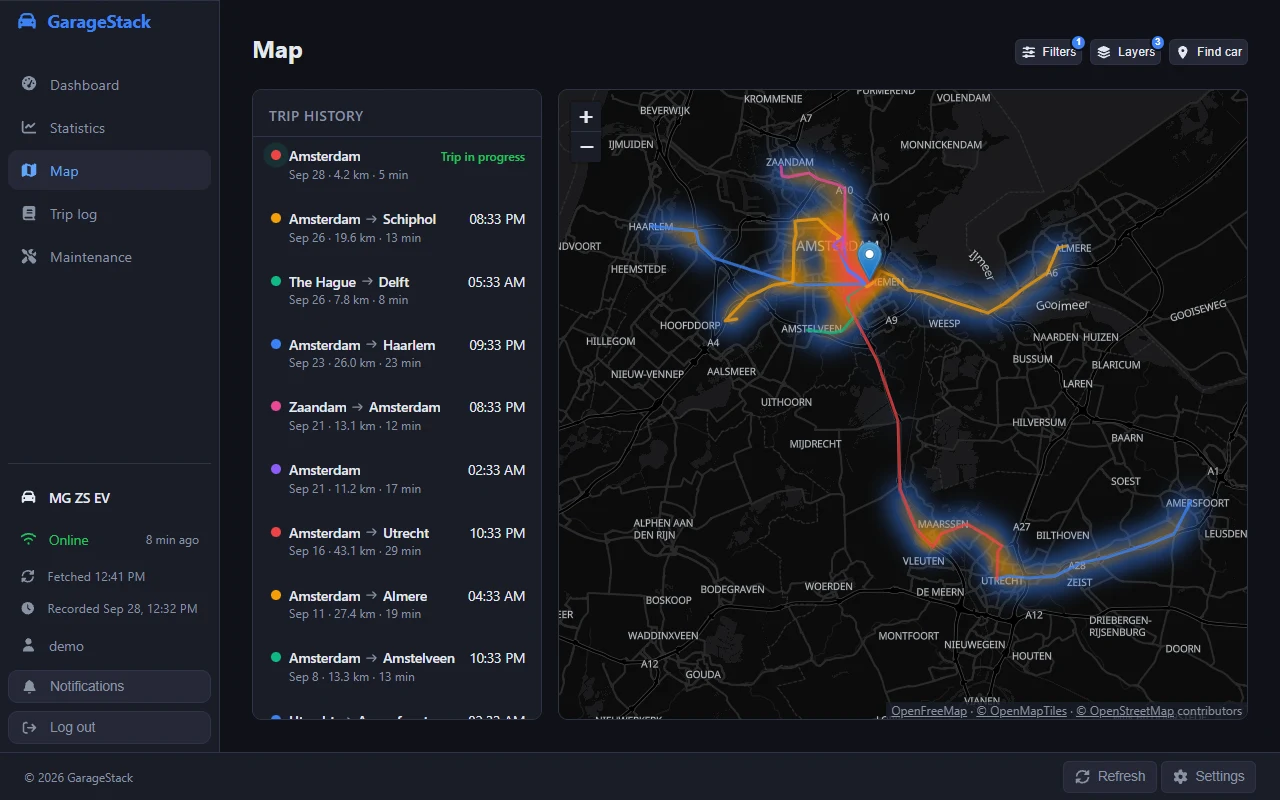
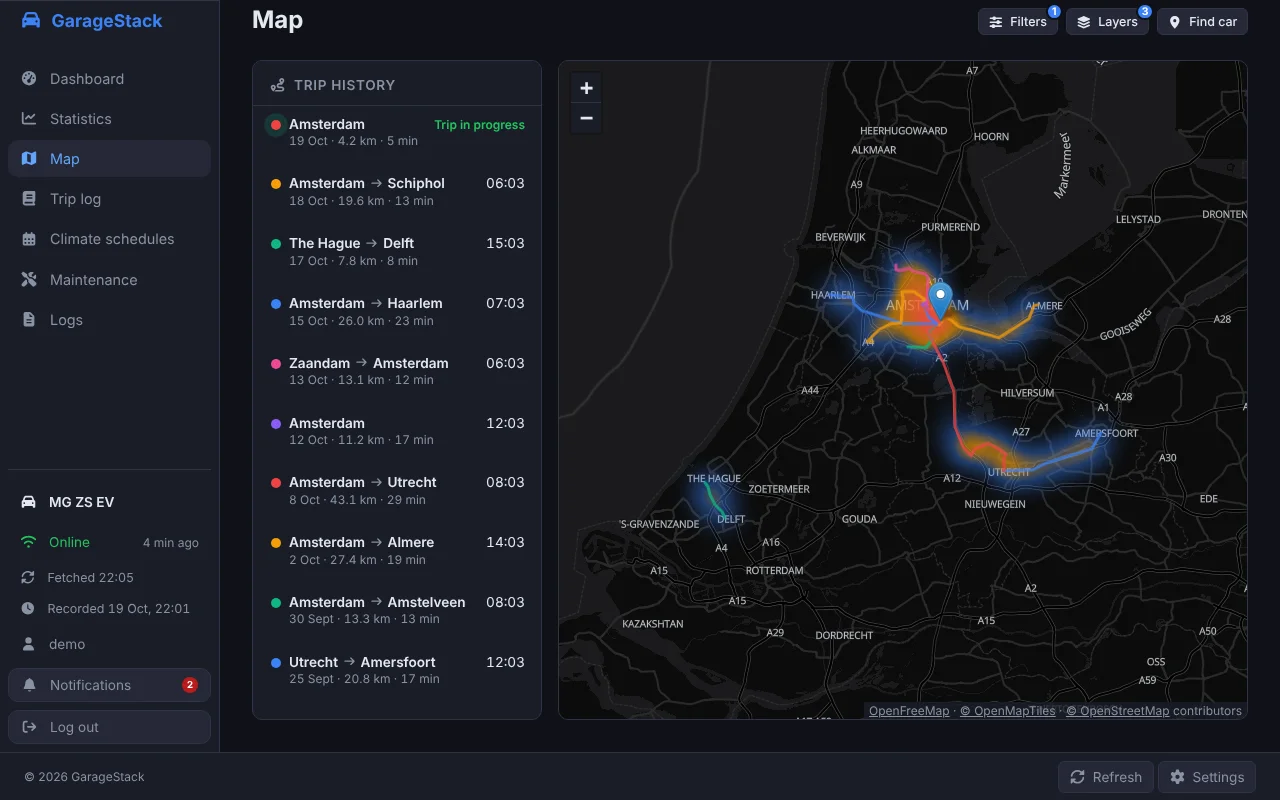
docs: an API reference for tokens, fresh screenshots, climate schedules and maintenance, and the PostgreSQL upgrade
- The OpenAPI document is served in every deployment at /api/openapi/v1.json,
  to whoever is signed in or holds a read-only token, and the README points
  token users at it instead of at the local demo.
- pnpm screenshots retakes the gallery and the manifest's install screenshots
  from a running demo stack; the gallery is retaken with it (the new sidebar,
  the RDW card, the trip log's hide and join) and gains Climate schedules.
- The README gets sections for climate schedules and maintenance, as the trip
  log and the RDW have.
- docker/all-in-one/README.md says how to move the bundled database to a new
  PostgreSQL major version by dump and restore, which the README links.

Claude-Session: https://claude.ai/code/session_01L6DtW2eHhipteRopmy3cif

diff --git a/src/GarageStack.Tests/AuthenticationFlowTests.cs b/src/GarageStack.Tests/AuthenticationFlowTests.cs
@@ -424,6 +424,27 @@ public class AuthenticationFlowTests
         Assert.DoesNotContain(logAfter, e => e.Id == second.Id);
     }
 
+    // The API reference is there for whoever is signed in (a token reads it too), and nobody else.
+    [Fact]
+    public async Task ApiReference_IsServedUnderApi_ToSignedInCallersOnly()
+    {
+        var ct = TestContext.Current.CancellationToken;
+        await using var factory = CreatePasswordOnlyFactory();
+        using var client = CreateClient(factory);
+
+        var anonymous = await client.GetAsync("/api/openapi/v1.json", ct);
+        var login = await client.PostAsJsonAsync(
+            "/api/auth/login",
+            new { username = DemoUsername, password = DemoPassword, rememberMe = false },
+            ct);
+        var reference = await client.GetFromJsonAsync<JsonElement>("/api/openapi/v1.json", ct);
+
+        Assert.Equal(HttpStatusCode.Unauthorized, anonymous.StatusCode);
+        Assert.Equal(HttpStatusCode.OK, login.StatusCode);
+        Assert.Equal("GarageStack API", reference.GetProperty("info").GetProperty("title").GetString());
+        Assert.True(reference.GetProperty("paths").TryGetProperty("/api/vehicles/{vin}/trips/{id}/merge-next", out _));
+    }
+
     // The statistics page asks for its period by local day, however long it is.
     [Fact]
     public async Task DailyStats_ServeEveryDayOfThePeriod_InTheBrowsersZone()

diff --git a/src/GarageStack.Api/Program.cs b/src/GarageStack.Api/Program.cs
@@ -156,6 +156,10 @@ try
     app.UseMiddleware<ApiTokenAuthentication.ReadOnlyMiddleware>();
     app.UseAuthorization();
 
+    // The API reference, for scripts with a read-only token: under /api/, which the frontend's nginx
+    // passes on, and for signed-in callers only, like every endpoint it describes.
+    app.MapOpenApi("/api/openapi/{documentName}.json").RequireAuthorization();
+
     if (app.Environment.IsDevelopment() || app.Environment.IsEnvironment("Demo"))
     {
         app.MapOpenApi();

diff --git a/README.md b/README.md
@@ -48,7 +48,7 @@ The statistics, trip log, maintenance list and light theme are in the [screensho
 - [Prerequisites](#prerequisites) and [Installation](#installation)
 - [Updating](#updating), [Monitoring](#monitoring) and [Backup and restore](#backup-and-restore)
 - [Push notifications](#push-notifications)
-- [Trip log](#trip-log)
+- [Trip log](#trip-log), [Climate schedules](#climate-schedules) and [Maintenance](#maintenance)
 - [Dutch registration (RDW)](#dutch-registration-rdw)
 - [Homepage dashboard widget](#homepage-dashboard-widget) and [Read-only API tokens](#read-only-api-tokens)
 - [Map overlays](#map-overlays)
@@ -253,7 +253,7 @@ The frontend is served on port `8080` by default (configurable via `FRONTEND_POR
 
 ## Updating
 
-Read the release notes first: anything an upgrade needs from you is listed under **Upgrade Notes** at the top. Database migrations run automatically on startup and only forwards, so to go back to an older version, restore the backup you took before upgrading (see [Backup and restore](#backup-and-restore)). A new PostgreSQL major version is never installed by an update: moving from 18 to the next one means a `pg_dump` from the old version and a restore into a fresh volume on the new one.
+Read the release notes first: anything an upgrade needs from you is listed under **Upgrade Notes** at the top. Database migrations run automatically on startup and only forwards, so to go back to an older version, restore the backup you took before upgrading (see [Backup and restore](#backup-and-restore)). A new PostgreSQL major version is never installed by an update: moving from 18 to the next one means a `pg_dump` from the old version and a restore into a fresh volume on the new one, step by step in [Moving to a new PostgreSQL major version](docker/all-in-one/README.md#moving-to-a-new-postgresql-major-version).
 
 **Docker Compose** builds GarageStack from the cloned source, so update the source and rebuild. `docker compose pull` fetches the gateway, Postgres and Mosquitto images:
 
@@ -423,6 +423,31 @@ Only trips the Worker has saved can be logged, so the trip being driven, and one
 
 ---
 
+## Climate schedules
+
+**Climate schedules** in the sidebar switch the car's climate on at a time you set, so it is warm (or cool) when you leave. They run on the GarageStack server: no phone or browser has to be open.
+
+- **When.** A time on the chosen weekdays, or once, on the next day that time comes round, when no weekday is chosen. The time is kept in the time zone the browser had when the schedule was made, so 07:30 stays 07:30 across daylight saving time.
+- **What.** A temperature (16 to 28 °C), or the fan only, or the front defrost; seat heating for either front seat, and the rear defroster.
+- **Only when it is needed.** A schedule can run only below or above an outside temperature: warming the car on cold mornings only, say. The car's own outside temperature from the last three hours decides; without a recent one the schedule runs.
+- **When it does not run.** Not while the engine runs, and not when the GarageStack Worker finds it more than 10 minutes late (after a restart, say): a car warmed long after you left is no use, so that run is recorded as missed. A car that answers that it is still busy, as one woken from a long sleep can, is asked again, up to three times.
+- **What you hear.** Each run sends a notification saying whether the car started climate, refused, or did not answer. The schedule's card shows the last run and when it runs next, and the optional dashboard card the next start.
+
+Commands sent by hand at the same moment as a scheduled run share the car's one command at a time; see [`ARCHITECTURE.md`](documentation/ARCHITECTURE.md#climate-schedules) for how a run is carried out.
+
+---
+
+## Maintenance
+
+**Maintenance** in the sidebar keeps the car's service items, such as the oil, the tyres or the yearly inspection.
+
+- **Intervals.** Each item has a distance interval, a time interval, or both; with both, it is due at whichever comes first.
+- **When it is due.** From the last service you logged and the car's odometer, an item is *OK*, *due soon* once 90 % of its interval has passed, or *overdue*. One without a service logged yet is *not tracked yet*.
+- **Logging a service.** Record the date, the odometer reading (the current one is filled in) and notes. The item's interval starts again from there, and its history is kept.
+- **Where it shows.** The dashboard's maintenance card shows the most urgent item, and so do the [Homepage widget](#homepage-dashboard-widget) and [Home Assistant](documentation/HOME_ASSISTANT.md#garagestacks-own-sensors). A notification comes when an item becomes due soon or overdue (checked every 6 hours, at most once a week per item).
+
+---
+
 ## Dutch registration (RDW)
 
 For a car with a Dutch licence plate, GarageStack shows what the [RDW](https://opendata.rdw.nl) has on record for it: when the APK runs out, the recalls on the car, and whether it is WAM insured. It is off until the deployment sets `RDW_ENABLED=true`; until then nothing is sent and none of the below appears.
@@ -450,7 +475,13 @@ To read GarageStack's data from a script, a dashboard or a watch, make a token u
 curl -H "Authorization: Bearer gs_..." https://garagestack.example.com/api/vehicles
 ```
 
-A token reads as the account that made it, through the same endpoints the app uses (the API reference lists them, see [`DEMO.md`](documentation/DEMO.md#manual-start)), and it can only read: any request that would change something, send a command or make another token is refused with `403`. The full data export and the server logs are refused too: they hold the car's whole history and the services' diagnostics, so they need a signed-in session. The list under Settings shows when each token was last used; revoking one stops it at once. GarageStack keeps only a hash of each token, so a lost one cannot be shown again: revoke it and make a new one.
+A token reads as the account that made it, through the same endpoints the app uses, and it can only read: any request that would change something, send a command or make another token is refused with `403`. The full data export and the server logs are refused too: they hold the car's whole history and the services' diagnostics, so they need a signed-in session. The list under Settings shows when each token was last used; revoking one stops it at once. GarageStack keeps only a hash of each token, so a lost one cannot be shown again: revoke it and make a new one.
+
+**The API reference** is at `/api/openapi/v1.json`, readable with the token like any other endpoint: every endpoint, what it takes and what it answers, as an OpenAPI document. Load it into any OpenAPI viewer, for example:
+
+```bash
+curl -H "Authorization: Bearer gs_..." https://garagestack.example.com/api/openapi/v1.json -o garagestack-openapi.json
+```
 
 A few things to know before building on a token:
 

diff --git a/documentation/screenshots/README.md b/documentation/screenshots/README.md
@@ -1,6 +1,6 @@
 # Screenshots
 
-Every view of GarageStack, on a desktop and on a phone. They were taken in [demo mode](../DEMO.md), so the car, its trips and the addresses are sample data.
+The main pages of GarageStack, on a desktop and on a phone. They were taken in [demo mode](../DEMO.md), so the car, its trips and the addresses are sample data.
 
 ## Desktop
 
@@ -22,11 +22,15 @@ Every view of GarageStack, on a desktop and on a phone. They were taken in [demo
 
 ### Trip log
 
-![The trip log: totals per purpose for the month, and each trip with its addresses, odometer readings, a business, commute or private choice and a notes field](desktop-trip-log.webp)
+![The trip log: totals per purpose for the month, and each trip with its addresses, odometer readings, a business, commute or private choice, a notes field, and buttons to hide it or join it with the next trip](desktop-trip-log.webp)
 
 ### Maintenance
 
 ![The maintenance list: service items marked overdue, due soon, OK or not tracked yet](desktop-maintenance.webp)
+
+### Climate schedules
+
+![The climate schedules: a weekday schedule at 07:30 with seat heating, and a one-off front defrost at 08:15, each with when it runs next](desktop-climate-schedules.webp)
 
 ### Light theme
 
@@ -39,11 +43,19 @@ Every view of GarageStack, on a desktop and on a phone. They were taken in [demo
 | Dashboard | Map | A single trip | Light theme |
 | --------- | --- | ------------- | ----------- |
 | <img src="mobile-dashboard.webp" alt="The dashboard on a phone" width="180"> | <img src="mobile-map.webp" alt="The map on a phone" width="180"> | <img src="mobile-map-trip.webp" alt="One trip against the speed limits on a phone" width="180"> | <img src="mobile-dashboard-light.webp" alt="The dashboard on a phone in the light theme" width="180"> |
-| **Statistics** | **Trip log** | **Maintenance** | |
-| <img src="mobile-statistics.webp" alt="The statistics on a phone" width="180"> | <img src="mobile-trip-log.webp" alt="The trip log on a phone" width="180"> | <img src="mobile-maintenance.webp" alt="The maintenance list on a phone" width="180"> | |
+| **Statistics** | **Trip log** | **Maintenance** | **Climate schedules** |
+| <img src="mobile-statistics.webp" alt="The statistics on a phone" width="180"> | <img src="mobile-trip-log.webp" alt="The trip log on a phone" width="180"> | <img src="mobile-maintenance.webp" alt="The maintenance list on a phone" width="180"> | <img src="mobile-climate-schedules.webp" alt="The climate schedules on a phone" width="180"> |
 
 <!-- markdownlint-enable MD033 -->
 
 ## Taking new ones
 
-The desktop screenshots are 1280 x 800 and the phone screenshots 390 x 844 at twice the pixel density, in the dark theme with the date filter on 30 days. The dashboard, map and statistics screenshots are also the install screenshots in the app's manifest, as `frontend/public/screenshot-*.webp`: replace those too, and keep their `sizes` in `frontend/vite.config.ts` in step.
+`pnpm screenshots` in `frontend/` takes all of them again from a running demo stack, and copies the dashboard, map and statistics ones to the install screenshots in the app's manifest (`frontend/public/screenshot-*.webp`):
+
+```bash
+cp .env.demo.example .env.demo
+docker compose --env-file .env.demo -f docker-compose.demo.yml up -d --build   # repository root
+cd frontend && pnpm screenshots                                                 # or: pnpm screenshots http://localhost:5173
+```
+
+It signs in as `demo`, and takes the desktop screenshots at 1280 x 800 and the phone screenshots at 390 x 844 at twice the pixel density, in the dark theme with the date filter on 30 days and the region set to the Netherlands, plus the dashboard in the light theme. The maps need the internet for their tiles; behind a proxy, `HTTPS_PROXY` is used for them. `CHROMIUM_PATH` points it at a Chromium other than Playwright's own. Keep the manifest's `sizes` in `frontend/vite.config.ts` in step if the sizes change.

diff --git a/docker/all-in-one/README.md b/docker/all-in-one/README.md
@@ -181,6 +181,46 @@ docker start garagestack
 
 To restore, stop the container, replace `garagestack-data` with the backup, and start it again. Only the database (`garagestack-data/db/postgres`) and DataProtection keys (`garagestack-data/dataprotection`) actually matter for disaster recovery -- losing the keys just logs everyone out, it doesn't lose any vehicle data.
 
+A dump of the database alone, taken while the container runs, is a smaller backup that also moves between PostgreSQL versions:
+
+```bash
+docker exec -u postgres garagestack pg_dump --clean --if-exists garagestack > garagestack-backup.sql
+```
+
+### Moving to a new PostgreSQL major version
+
+The image bundles PostgreSQL 18, and a PostgreSQL major version cannot read the data directory of another. An update never changes it on its own: when a release moves the image to the next major version, its release notes say so, and the database moves over by dump and restore. Replace `garagestack` with your `POSTGRES_DB` if you changed it.
+
+1. **Dump the database with the image you run now**, as above, and keep a copy of the whole folder too:
+
+   ```bash
+   docker exec -u postgres garagestack pg_dump --clean --if-exists garagestack > garagestack-backup.sql
+   docker stop garagestack
+   cp -r garagestack-data garagestack-data-backup
+   ```
+
+2. **Put the old database aside**, so the new image starts a fresh one. `.db_initialized` is what tells the container its database is set up already:
+
+   ```bash
+   docker rm garagestack
+   mv garagestack-data/db/postgres garagestack-data/db/postgres-old
+   rm garagestack-data/.db_initialized
+   ```
+
+3. **Start the new image** with your usual `docker run` command, and wait for the web interface to answer. It creates an empty database, keeping the password in `.postgres_password`.
+
+4. **Load the dump into it**, with the API and the Worker stopped so nothing writes meanwhile. The dump drops the empty tables before it loads its own:
+
+   ```bash
+   docker exec garagestack supervisorctl stop api worker
+   docker exec -i -u postgres garagestack psql -v ON_ERROR_STOP=1 garagestack < garagestack-backup.sql
+   docker exec garagestack supervisorctl start api worker
+   ```
+
+5. **Check the app**, then remove `garagestack-data/db/postgres-old` and the backup copy once you are sure. To go back instead, stop the container, put `garagestack-data-backup` back in place of `garagestack-data`, and run the previous image.
+
+Docker Compose with the bundled database works the same way: dump with `docker compose exec postgres pg_dump ...`, start the new `postgres` image on a fresh volume, and restore with `psql` (see [Backup and restore](../../README.md#backup-and-restore)).
+
 ## Troubleshooting
 
 ### 28P01: password authentication failed for user "garagestack"

diff --git a/documentation/DEMO.md b/documentation/DEMO.md
@@ -18,7 +18,7 @@ docker compose --env-file .env.demo -f docker-compose.demo.yml up --build
 
 Open [http://localhost:8080](http://localhost:8080) and log in with **demo / demo**.
 
-The API is available at `http://localhost:5001`. Scalar API docs are not served in production mode, so start the API locally (see below) if you need them.
+The API is available at `http://localhost:5001`. Its OpenAPI document is at `/api/openapi/v1.json` for anyone signed in, as in every deployment; the Scalar viewer for it is served only when the API runs locally (see below).
 
 This stack is also what the Playwright smoke tests run against, in CI and locally, because it is the production frontend image with the real nginx config. See [CONTRIBUTING.md](../.github/CONTRIBUTING.md).
 
@@ -45,7 +45,7 @@ dotnet run --launch-profile Demo
 
 This starts the API at `http://localhost:5000` with `DEMO_MODE=true`, `Auth:Username=demo`, and `Auth:Password=demo` pre-configured. No database or MQTT connection is made.
 
-The API reference (Scalar) is at [http://localhost:5000/scalar/v1](http://localhost:5000/scalar/v1), and the OpenAPI document at `/openapi/v1.json`. Both are served only in the `Development` and `Demo` environments (`ASPNETCORE_ENVIRONMENT`), never by the Docker images.
+The API reference (Scalar) is at [http://localhost:5000/scalar/v1](http://localhost:5000/scalar/v1), and the OpenAPI document at `/openapi/v1.json`. Both are served only in the `Development` and `Demo` environments (`ASPNETCORE_ENVIRONMENT`). Every deployment, the Docker images included, also serves the document at `/api/openapi/v1.json` to whoever is signed in or holds an API token.
 
 **Frontend:**
 
